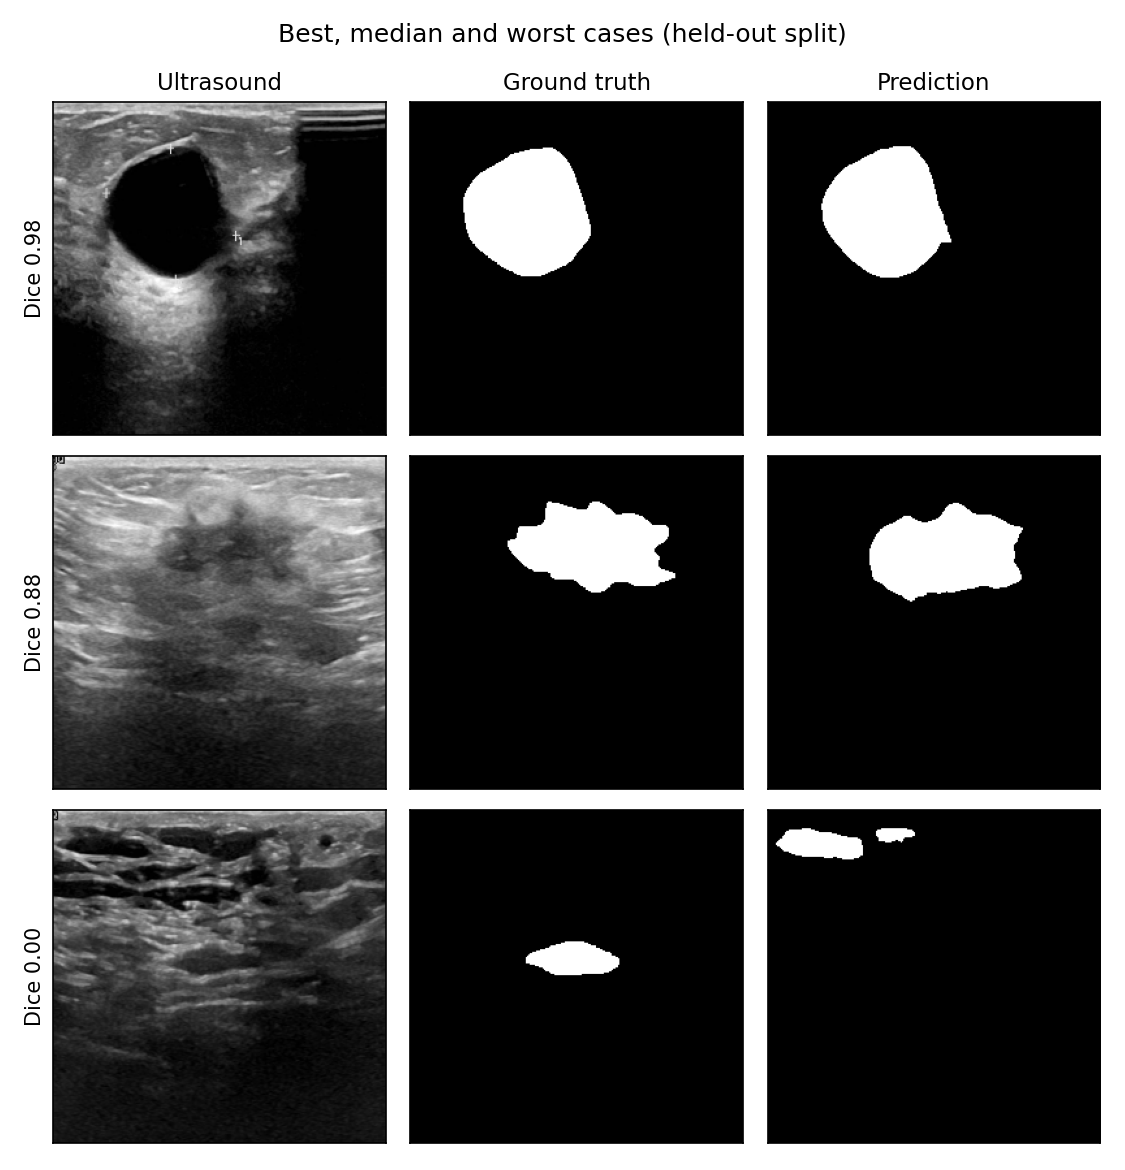
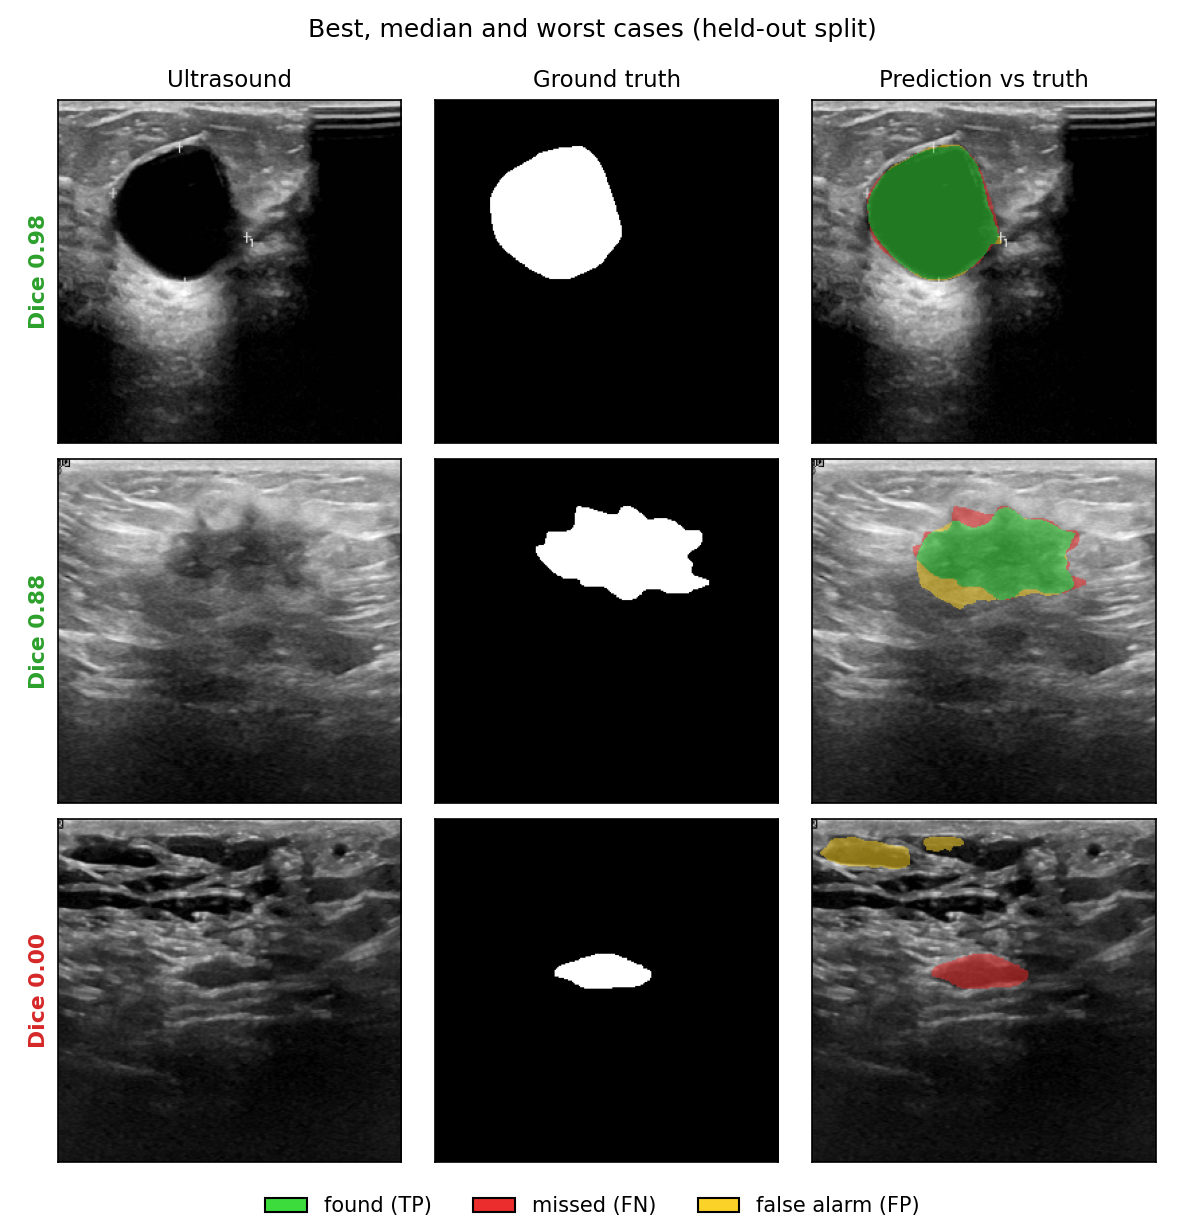
Colour the presentation figures; correct Focal Tversky notes
Figures: one colour per experimental condition, consistent across all seven
(blue = paper recipe, orange = + augmentation, green = + Focal Tversky,
red = the paper's reported target). Chosen to survive greyscale printing and
the common red-green colour-vision deficiencies.

fig4 now overlays prediction against ground truth on the scan itself -- green
found, red missed, yellow false alarm -- instead of two separate grey masks.
The failure case is legible at a glance: the model missed the small lesion and
fired on two shadowed regions instead.

Also fixed label collisions introduced by the new annotations (fig1 legend,
fig2 band label and gap arrow, fig5 arrowhead, fig6 paper line, fig7 legend),
and corrected two speaker-note lines on the modifications slide that quoted
+0.017 as the mean Focal Tversky gain. The mean over three splits is +0.013;
+0.017 is seed 43's individual delta.

All deck numbers re-verified against models/*/log.csv.

diff --git a/unext/make_figures.py b/unext/make_figures.py
@@ -28,6 +28,18 @@ OUT = 'figures'
 os.makedirs(OUT, exist_ok=True)
 PAPER_IOU, PAPER_DICE = 0.6695, 0.7937
 
+# One colour per experimental condition, used identically in every figure, so the
+# audience learns the mapping once: blue = the paper's recipe / baseline, orange =
+# our augmentation fix, green = + Focal Tversky (our best), red = the paper's
+# claimed number we are chasing. Chosen to stay distinguishable in greyscale print
+# and under the common red-green colour-vision deficiencies.
+C_BASE = '#1f77b4'     # paper recipe / baseline
+C_AUG = '#ff7f0e'      # + strong augmentation
+C_FTL = '#2ca02c'      # + Focal Tversky (best)
+C_PAPER = '#d62728'    # the paper's reported target
+C_TRAIN = '#7f7f7f'    # training curves (context, not a condition)
+C_ALT = '#9467bd'      # other variants (SE, 512px, ...)
+
 
 def log(name):
     return pd.read_csv(f'models/{name}/log.csv')
@@ -37,21 +49,26 @@ def fig1_overfitting():
     """The single most important visual: train and val separating after ~ep100."""
     d = log('busi_split41')
     fig, ax = plt.subplots(figsize=(8, 4.5))
-    ax.plot(d.epoch, d.iou, color='black', lw=1.6, label='Train IoU')
-    ax.plot(d.epoch, d.val_iou, color='gray', lw=1.6, ls='--', label='Validation IoU')
+    ax.plot(d.epoch, d.iou, color=C_TRAIN, lw=1.8, label='Train IoU')
+    ax.plot(d.epoch, d.val_iou, color=C_BASE, lw=1.8, label='Validation IoU')
 
     pk = int(d.val_iou.idxmax())
-    ax.axvline(pk, color='black', lw=0.9, ls=':', alpha=0.7)
+    # shade everything after the peak: this is the wasted portion of training
+    ax.axvspan(pk, len(d) - 1, color=C_PAPER, alpha=0.06, zorder=0)
+    ax.axvline(pk, color=C_BASE, lw=1.0, ls=':', alpha=0.8)
     ax.annotate(f'validation peaks\nat epoch {pk}', xy=(pk, d.val_iou.max()),
-                xytext=(pk + 28, d.val_iou.max() - 0.13), fontsize=10,
-                arrowprops=dict(arrowstyle='->', color='black', lw=0.9))
+                xytext=(pk - 100, d.val_iou.max() + 0.12), fontsize=10, color=C_BASE,
+                arrowprops=dict(arrowstyle='->', color=C_BASE, lw=1.0))
+    # sits in the empty band between the two curves, clear of the legend
+    ax.text((pk + len(d)) / 2, 0.70, 'validation flat — the model is\nmemorising the training set',
+            fontsize=9.5, color=C_PAPER, ha='center', va='center', style='italic')
 
     last = len(d) - 1
     ax.annotate('', xy=(last, d.iou.iloc[-1]), xytext=(last, d.val_iou.iloc[-1]),
-                arrowprops=dict(arrowstyle='<->', color='black', lw=1.3))
+                arrowprops=dict(arrowstyle='<->', color=C_PAPER, lw=1.6))
     ax.text(last - 6, (d.iou.iloc[-1] + d.val_iou.iloc[-1]) / 2,
             f'gap\n+{d.iou.iloc[-1] - d.val_iou.iloc[-1]:.2f}',
-            fontsize=10, ha='right', va='center')
+            fontsize=10.5, ha='right', va='center', color=C_PAPER, fontweight='bold')
 
     ax.set_xlabel('Epoch')
     ax.set_ylabel('IoU')
@@ -72,19 +89,30 @@ def fig2_reproduction():
     names = [r[0] for r in runs]
     vals = [r[1] for r in runs]
 
+    # purple = configuration variants, blue = the three-seed protocol the paper uses
+    cols = [C_ALT, C_ALT, C_ALT, C_BASE, C_BASE, C_BASE]
+
     fig, ax = plt.subplots(figsize=(8, 4.5))
-    ax.bar(range(len(vals)), vals, color='white', edgecolor='black', lw=1.3, width=0.62)
+    ax.bar(range(len(vals)), vals, color=cols, edgecolor='black', lw=0.9, width=0.62)
     for i, v in enumerate(vals):
         ax.text(i, v + 0.008, f'{v:.3f}', ha='center', fontsize=9.5)
 
-    ax.axhline(PAPER_IOU, color='black', lw=1.6, ls='--')
-    ax.text(len(vals) - 0.4, PAPER_IOU + 0.009,
-            f'paper: {PAPER_IOU:.4f}', fontsize=10, ha='right', style='italic')
+    # band spanning every run we measured -- shows they all sit far below the target
+    ax.axhspan(min(vals), max(vals), color=C_BASE, alpha=0.10, zorder=0)
+    ax.text(-0.62, (min(vals) + max(vals)) / 2 - 0.075, 'every run\n0.569 – 0.602',
+            fontsize=9, color=C_BASE, va='center', ha='center', style='italic')
 
+    ax.axhline(PAPER_IOU, color=C_PAPER, lw=1.8, ls='--')
+    ax.text(-0.62, PAPER_IOU + 0.014, f'paper: {PAPER_IOU:.4f}',
+            fontsize=10.5, ha='left', style='italic', color=C_PAPER, fontweight='bold')
+
+    # gap arrow in the clear lane to the right of the last bar
     mean = np.mean([0.6016, 0.5692, 0.6085])
-    ax.annotate('', xy=(4.5, PAPER_IOU), xytext=(4.5, mean),
-                arrowprops=dict(arrowstyle='<->', color='black', lw=1.3))
-    ax.text(4.62, (PAPER_IOU + mean) / 2, f'gap\n{PAPER_IOU - mean:.3f}', fontsize=10, va='center')
+    ax.annotate('', xy=(5.62, PAPER_IOU), xytext=(5.62, mean),
+                arrowprops=dict(arrowstyle='<->', color=C_PAPER, lw=1.6))
+    ax.text(5.72, (PAPER_IOU + mean) / 2, f'gap\n{PAPER_IOU - mean:.3f}',
+            fontsize=10, va='center', ha='left', color=C_PAPER, fontweight='bold')
+    ax.set_xlim(-1.05, 6.35)
 
     ax.set_xticks(range(len(names)))
     ax.set_xticklabels(names, fontsize=9)
@@ -102,15 +130,15 @@ def fig3_augmentation():
     fig, (ax1, ax2) = plt.subplots(1, 2, figsize=(11, 4.3))
 
     b, a = log('busi_split43'), log('busi_split43_aug')
-    ax1.plot(b.epoch, b.val_iou, color='gray', lw=1.3, ls='--', label='Paper augmentation')
-    ax1.plot(a.epoch, a.val_iou, color='black', lw=1.5, label='Strong augmentation')
-    ax1.axhline(PAPER_IOU, color='black', lw=1.1, ls=':', alpha=0.65)
-    ax1.text(8, PAPER_IOU + 0.014, 'paper', fontsize=9, style='italic')
+    ax1.plot(b.epoch, b.val_iou, color=C_BASE, lw=1.5, label='Paper augmentation')
+    ax1.plot(a.epoch, a.val_iou, color=C_AUG, lw=1.7, label='Strong augmentation')
+    ax1.axhline(PAPER_IOU, color=C_PAPER, lw=1.3, ls=':', alpha=0.85)
+    ax1.text(8, PAPER_IOU + 0.014, 'paper', fontsize=9, style='italic', color=C_PAPER)
     pk = int(a.val_iou.idxmax())
-    ax1.plot(pk, a.val_iou.max(), 'o', color='black', ms=6)
+    ax1.plot(pk, a.val_iou.max(), 'o', color=C_AUG, ms=7, zorder=4)
     ax1.annotate(f'peak @ep{pk}\n(baseline peaked ~ep100)',
-                 xy=(pk, a.val_iou.max()), xytext=(140, 0.22), fontsize=9.5,
-                 arrowprops=dict(arrowstyle='->', color='black', lw=0.9))
+                 xy=(pk, a.val_iou.max()), xytext=(140, 0.22), fontsize=9.5, color=C_AUG,
+                 arrowprops=dict(arrowstyle='->', color=C_AUG, lw=1.0))
     ax1.set_xlabel('Epoch'); ax1.set_ylabel('Validation IoU')
     ax1.set_title('Augmentation keeps improving past ep100', fontsize=11.5)
     ax1.legend(frameon=False, loc='lower right', fontsize=9.5)
@@ -120,13 +148,17 @@ def fig3_augmentation():
     base = [0.6016, 0.5692, 0.6085]
     aug = [0.6215, 0.6306, 0.6464]
     x = np.arange(3); w = 0.34
-    ax2.bar(x - w/2, base, w, color='white', edgecolor='black', lw=1.3, label='Paper aug')
-    ax2.bar(x + w/2, aug, w, color='black', edgecolor='black', lw=1.3, label='Strong aug')
+    ax2.bar(x - w/2, base, w, color=C_BASE, edgecolor='black', lw=0.9, label='Paper aug')
+    ax2.bar(x + w/2, aug, w, color=C_AUG, edgecolor='black', lw=0.9, label='Strong aug')
     for i in range(3):
         ax2.text(x[i] - w/2, base[i] + 0.010, f'{base[i]:.3f}', ha='center', fontsize=8.5)
         ax2.text(x[i] + w/2, aug[i] + 0.010, f'{aug[i]:.3f}', ha='center', fontsize=8.5)
-    ax2.axhline(PAPER_IOU, color='black', lw=1.1, ls=':', alpha=0.65)
-    ax2.text(-0.45, PAPER_IOU + 0.014, 'paper', fontsize=9, ha='left', style='italic')
+        # per-split delta in text -- an arrow between bars this close reads as noise
+        ax2.text(x[i], max(base[i], aug[i]) + 0.055, f'+{aug[i] - base[i]:.3f}',
+                 ha='center', fontsize=9, color=C_AUG, fontweight='bold')
+    ax2.axhline(PAPER_IOU, color=C_PAPER, lw=1.3, ls=':', alpha=0.85)
+    ax2.text(-0.45, PAPER_IOU + 0.014, 'paper', fontsize=9, ha='left',
+             style='italic', color=C_PAPER)
     ax2.set_xticks(x); ax2.set_xticklabels([f'seed {s}' for s in seeds])
     ax2.set_ylabel('Best IoU')
     ax2.set_ylim(0, 0.92)          # headroom so labels clear the paper line
@@ -174,11 +206,30 @@ def fig4_qualitative():
     scored.sort(reverse=True)
     picks = [scored[0], scored[len(scored) // 2], scored[-1]]
 
-    fig, axes = plt.subplots(3, 3, figsize=(7.5, 7.8))
+    from matplotlib.patches import Patch
+
+    def overlay(img, gt, pr):
+        """Colour-code agreement per pixel on top of the scan.
+
+        green  = correctly found tumour (true positive)
+        red    = missed tumour (false negative) -- the dangerous error
+        yellow = false alarm (false positive)
+        """
+        o = img.astype(float).copy()
+        tint = {(True, True): (60, 220, 60), (True, False): (235, 45, 45),
+                (False, True): (250, 210, 40)}
+        for (in_gt, in_pr), rgb in tint.items():
+            m = (gt == in_gt) & (pr == in_pr)
+            if in_gt or in_pr:                       # skip true-negative background
+                o[m] = 0.45 * o[m] + 0.55 * np.array(rgb)
+        return o.astype('uint8')
+
+    fig, axes = plt.subplots(3, 3, figsize=(7.9, 8.2))
     for r, (dice, iid, img, gt, pr) in enumerate(picks):
-        for c, (im, ttl, cm) in enumerate([(img, 'Ultrasound', None),
-                                           (gt, 'Ground truth', 'gray'),
-                                           (pr, 'Prediction', 'gray')]):
+        panels = [(img, 'Ultrasound', None),
+                  (gt, 'Ground truth', 'gray'),
+                  (overlay(img, gt, pr), 'Prediction vs truth', None)]
+        for c, (im, ttl, cm) in enumerate(panels):
             ax = axes[r, c]
             ax.imshow(im, cmap=cm)
             ax.set_xticks([]); ax.set_yticks([])
@@ -186,9 +237,16 @@ def fig4_qualitative():
                 s.set_visible(True); s.set_color('black')
             if r == 0:
                 ax.set_title(ttl, fontsize=11)
-        axes[r, 0].set_ylabel(f'Dice {dice:.2f}', fontsize=10)
-    fig.suptitle('Best, median and worst cases (held-out split)', fontsize=12, y=0.98)
-    fig.tight_layout()
+        col = C_FTL if dice > 0.8 else (C_AUG if dice > 0.3 else C_PAPER)
+        axes[r, 0].set_ylabel(f'Dice {dice:.2f}', fontsize=10.5,
+                              color=col, fontweight='bold')
+    fig.suptitle('Best, median and worst cases (held-out split)', fontsize=12, y=0.985)
+    fig.legend(handles=[Patch(facecolor='#3cdc3c', edgecolor='black', label='found (TP)'),
+                        Patch(facecolor='#eb2d2d', edgecolor='black', label='missed (FN)'),
+                        Patch(facecolor='#fad228', edgecolor='black', label='false alarm (FP)')],
+               loc='lower center', ncol=3, frameon=False, fontsize=10,
+               bbox_to_anchor=(0.5, -0.004))
+    fig.tight_layout(rect=(0, 0.035, 1, 1))
     fig.savefig(f'{OUT}/fig4_qualitative.png')
     plt.close(fig)
 
@@ -204,16 +262,22 @@ def fig6_cumulative():
                                    gridspec_kw={'width_ratios': [1.35, 1]})
 
     x = np.arange(3); w = 0.26
-    ax1.bar(x - w, base, w, color='white', edgecolor='black', lw=1.3, label='Paper recipe')
-    ax1.bar(x, aug, w, color='0.65', edgecolor='black', lw=1.3, label='+ strong augmentation')
-    ax1.bar(x + w, ftl, w, color='black', edgecolor='black', lw=1.3, label='+ Focal Tversky')
+    ax1.bar(x - w, base, w, color=C_BASE, edgecolor='black', lw=0.9, label='Paper recipe')
+    ax1.bar(x, aug, w, color=C_AUG, edgecolor='black', lw=0.9, label='+ strong augmentation')
+    ax1.bar(x + w, ftl, w, color=C_FTL, edgecolor='black', lw=0.9, label='+ Focal Tversky')
+    # value labels on a common line above the paper marker, so none collide with it
+    lbl_y = PAPER_IOU + 0.022
     for i in range(3):
         for off, v in [(-w, base[i]), (0, aug[i]), (w, ftl[i])]:
-            ax1.text(x[i] + off, v + 0.008, f'{v:.3f}', ha='center', fontsize=7.8)
-    ax1.axhline(PAPER_IOU, color='black', lw=1.1, ls=':', alpha=0.7)
-    ax1.text(-0.42, PAPER_IOU + 0.013, 'paper 0.6695', fontsize=9, style='italic')
+            ax1.vlines(x[i] + off, v, lbl_y - 0.006, color='0.7', lw=0.7, zorder=1)
+            ax1.text(x[i] + off, lbl_y, f'{v:.3f}', ha='center', fontsize=7.8,
+                     rotation=90, va='bottom')
+    ax1.axhline(PAPER_IOU, color=C_PAPER, lw=1.3, ls=':', alpha=0.85)
+    # label the line on the left, below it, where no bar reaches
+    ax1.text(-0.42, PAPER_IOU - 0.038, 'paper 0.6695', fontsize=9,
+             style='italic', color=C_PAPER)
     ax1.set_xticks(x); ax1.set_xticklabels([f'seed {s}' for s in seeds])
-    ax1.set_ylabel('Best IoU'); ax1.set_ylim(0, 0.93)
+    ax1.set_ylabel('Best IoU'); ax1.set_ylim(0, 1.02)   # room for rotated labels
     ax1.set_title('Per split — every seed improves at each stage', fontsize=11.5)
     ax1.legend(frameon=False, fontsize=9, loc='upper center', ncol=3,
                bbox_to_anchor=(0.5, 1.005))
@@ -221,21 +285,25 @@ def fig6_cumulative():
     means = [np.mean(base), np.mean(aug), np.mean(ftl)]
     errs = [np.std(base, ddof=1), np.std(aug, ddof=1), np.std(ftl, ddof=1)]
     labels = ['Paper\nrecipe', '+ strong\naug', '+ Focal\nTversky']
-    ax2.errorbar(range(3), means, yerr=errs, color='black', lw=1.8, marker='o',
-                 ms=8, capsize=6, zorder=3)
+    ax2.errorbar(range(3), means, yerr=errs, color='0.35', lw=1.8, marker='none',
+                 capsize=6, zorder=3)
+    # colour each point to match its condition in the left panel
+    for i, (m, col) in enumerate(zip(means, [C_BASE, C_AUG, C_FTL])):
+        ax2.plot(i, m, 'o', color=col, ms=11, mec='black', mew=1.0, zorder=4)
     for i, (m, e) in enumerate(zip(means, errs)):
         # last point sits near the paper line -- put its label below instead
         below = (i == len(means) - 1)
         ax2.text(i, m - e - 0.016 if below else m + e + 0.011, f'{m:.4f}',
                  ha='center', va='top' if below else 'bottom',
                  fontsize=10, fontweight='bold')
-    ax2.axhline(PAPER_IOU, color='black', lw=1.1, ls=':', alpha=0.7)
-    ax2.text(-0.35, PAPER_IOU + 0.002, 'paper', fontsize=9, ha='left', style='italic')
+    ax2.axhline(PAPER_IOU, color=C_PAPER, lw=1.3, ls=':', alpha=0.85)
+    ax2.text(-0.35, PAPER_IOU + 0.002, 'paper', fontsize=9, ha='left',
+             style='italic', color=C_PAPER)
     ax2.set_ylim(0.560, 0.685)
     ax2.annotate('', xy=(2.2, means[0]), xytext=(2.2, means[2]),
-                 arrowprops=dict(arrowstyle='<->', color='black', lw=1.4))
+                 arrowprops=dict(arrowstyle='<->', color=C_FTL, lw=1.6))
     ax2.text(2.28, (means[0] + means[2]) / 2, f'+{means[2]-means[0]:.3f}',
-             fontsize=10, va='center', fontweight='bold')
+             fontsize=10, va='center', fontweight='bold', color=C_FTL)
     ax2.set_xticks(range(3)); ax2.set_xticklabels(labels, fontsize=9.5)
     ax2.set_xlim(-0.45, 2.65)
     ax2.set_ylabel('Mean IoU over 3 splits')
@@ -252,18 +320,24 @@ def fig7_precision_recall():
     bce = [0.7882, 0.7928]
     ftl = [0.8536, 0.7510]
     x = np.arange(2); w = 0.32
-    ax.bar(x - w/2, bce, w, color='white', edgecolor='black', lw=1.4, label='BCE + Dice')
-    ax.bar(x + w/2, ftl, w, color='black', edgecolor='black', lw=1.4, label='BCE + Focal Tversky')
+    ax.bar(x - w/2, bce, w, color=C_AUG, edgecolor='black', lw=0.9, label='BCE + Dice')
+    ax.bar(x + w/2, ftl, w, color=C_FTL, edgecolor='black', lw=0.9,
+           label='BCE + Focal Tversky')
     for i in range(2):
         ax.text(x[i] - w/2, bce[i] + 0.012, f'{bce[i]:.3f}', ha='center', fontsize=10)
         ax.text(x[i] + w/2, ftl[i] + 0.012, f'{ftl[i]:.3f}', ha='center', fontsize=10)
-    ax.annotate(f'+{ftl[0]-bce[0]:.3f}', xy=(0.42, 0.90), fontsize=11, fontweight='bold')
-    ax.annotate(f'{ftl[1]-bce[1]:.3f}', xy=(1.42, 0.90), fontsize=11, fontweight='bold')
+    # green where we gained, red where we paid -- the trade is the whole story
+    ax.text(0, 0.945, f'+{ftl[0]-bce[0]:.3f}', fontsize=13, ha='center',
+            fontweight='bold', color=C_FTL)
+    ax.text(1, 0.945, f'{ftl[1]-bce[1]:.3f}', fontsize=13, ha='center',
+            fontweight='bold', color=C_PAPER)
     ax.set_xticks(x); ax.set_xticklabels(metrics, fontsize=10.5)
-    ax.set_ylabel('Score'); ax.set_ylim(0, 1.0)
+    ax.set_ylabel('Score'); ax.set_ylim(0, 1.10)
     ax.set_title('Focal Tversky trades precision for recall — by design',
                  fontsize=12, pad=12)
-    ax.legend(frameon=False, fontsize=10, loc='lower right')
+    # legend above the bars; the plot area below is fully occupied
+    ax.legend(frameon=False, fontsize=10, loc='upper center', ncol=2,
+              bbox_to_anchor=(0.5, 1.005))
     fig.tight_layout()
     fig.savefig(f'{OUT}/fig7_precision_recall.png')
     plt.close(fig)
@@ -272,13 +346,18 @@ def fig7_precision_recall():
 def fig5_efficiency():
     """Params vs CPU latency — the claim that DID reproduce."""
     fig, ax = plt.subplots(figsize=(7.5, 4.5))
-    pts = [('TransUNet', 105.32, 246, 'gray'), ('UNeXt (paper)', 1.47, 25, 'gray'),
-           ('UNeXt (ours)', 1.47, 12.5, 'black')]
+    pts = [('TransUNet', 105.32, 246, C_PAPER), ('UNeXt (paper)', 1.47, 25, C_BASE),
+           ('UNeXt (ours)', 1.47, 12.5, C_FTL)]
+    # arrow across the two orders of magnitude UNeXt buys you
+    ax.annotate('', xy=(3.6, 47), xytext=(80, 230),
+                arrowprops=dict(arrowstyle='->', color='0.55', lw=1.6, ls='--'))
+    ax.text(15, 115, '72× fewer parameters\n10× faster', fontsize=10,
+            color='0.35', ha='center', style='italic')
     for name, p, ms, col in pts:
-        ax.scatter(p, ms, s=130, color='white' if col == 'gray' else 'black',
-                   edgecolor='black', lw=1.6, zorder=3)
+        ax.scatter(p, ms, s=170, color=col, edgecolor='black', lw=1.2, zorder=3)
         ax.annotate(f'{name}\n{p:.2f}M, {ms:.0f}ms', (p, ms),
-                    textcoords='offset points', xytext=(12, 6), fontsize=9.5)
+                    textcoords='offset points', xytext=(12, 6),
+                    fontsize=9.5, color=col, fontweight='bold')
     ax.set_xscale('log'); ax.set_yscale('log')
     ax.set_xlabel('Parameters (millions, log scale)')
     ax.set_ylabel('CPU inference (ms, log scale)')
